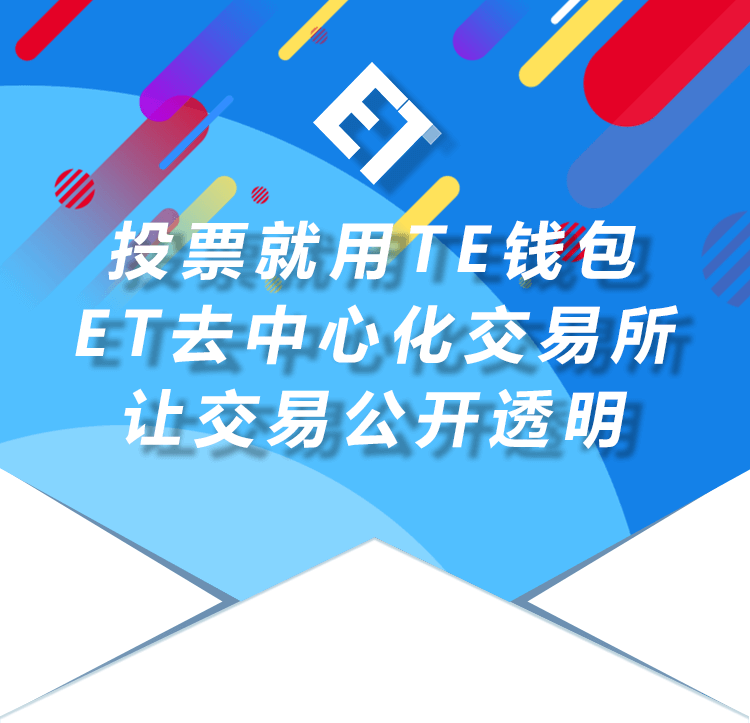
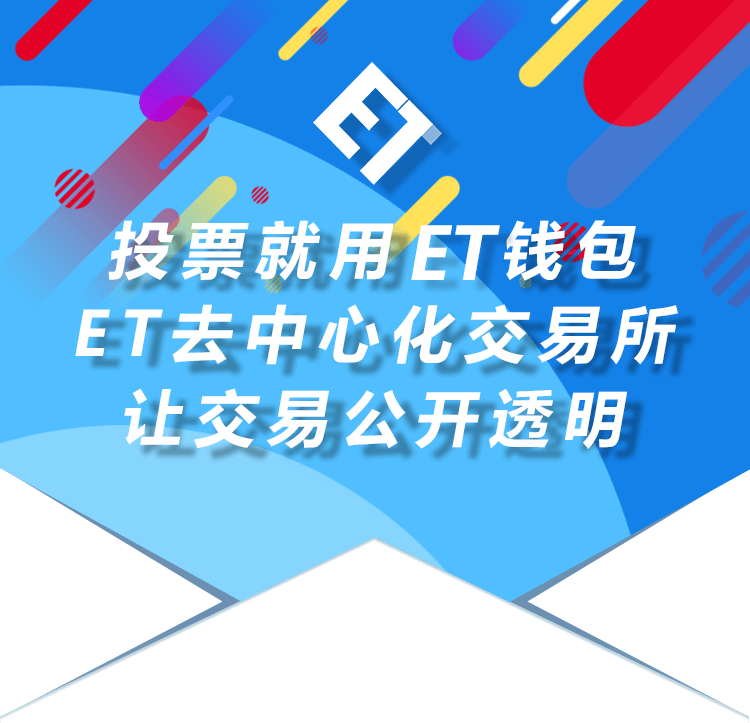
改回EosToken官网链接

Changed region(s): [[0.552, 0.3043, 0.6747, 0.426]]

diff --git a/app/route/Nav.js b/app/route/Nav.js
@@ -961,7 +961,7 @@ class Route extends React.Component {
                       <View style={{ padding: 10 }}>
                         <Image source={UImage.Invitation_vote} resizeMode="cover" style={{ width: '100%', height:ScreenWidth-70 }} />
                         <View style={{ width: (ScreenWidth - 40) * 0.319, justifyContent: 'center', alignSelf: 'center',paddingBottom:20, }}>
-                          <QRCode size={100} style={{ width: 100, }} value={'http://offw.etdac.io/pages/'} />
+                          <QRCode size={100} style={{ width: 100, }} value={'http://eostoken.im/'} />
                         </View>
 
                       </View>
